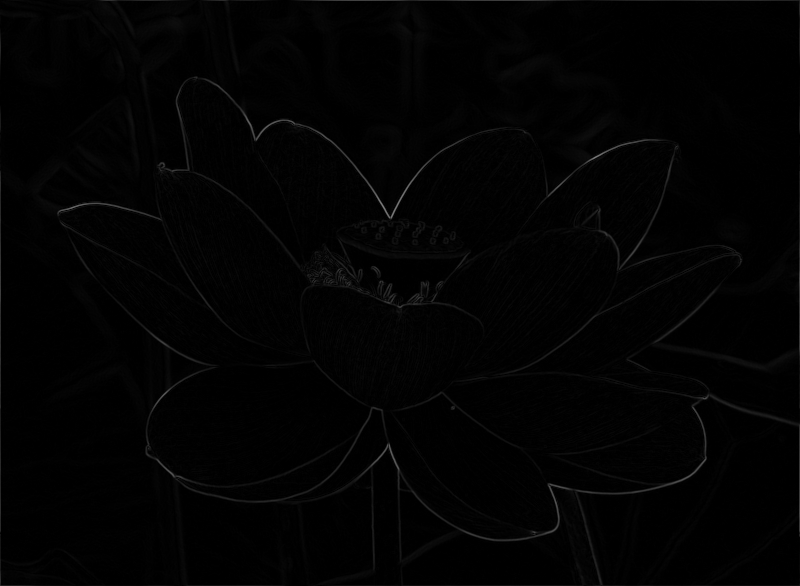
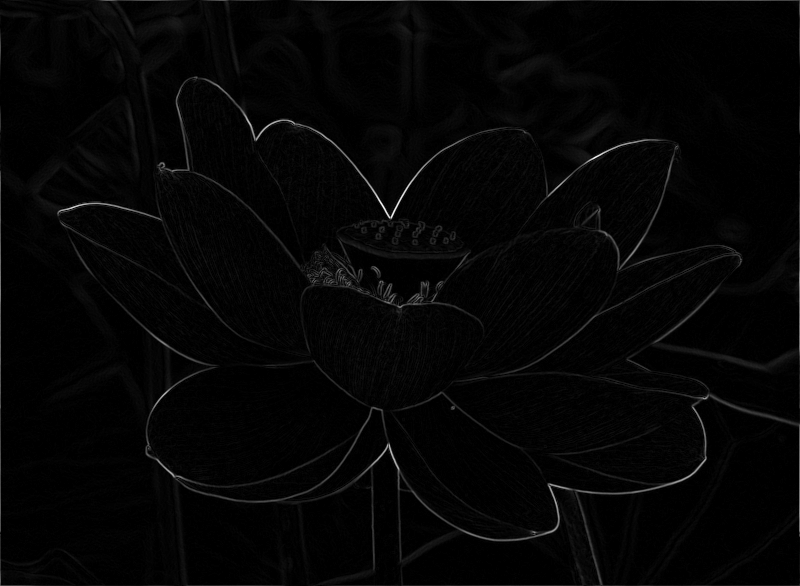
Added a "max range" filter
filterMaxRange takes a grayscale image and returns the same image with
the values stretched to fill white to black

diff --git a/Image Filters/src/ImageHandler.java b/Image Filters/src/ImageHandler.java
@@ -130,6 +130,34 @@ public class ImageHandler {
 		}
 		return out;
 	}
+	
+	public static BufferedImage filterMaxRange(BufferedImage image) {
+		int min = 255, max = 0;
+		for(int y = 0; y < image.getHeight(); y++) {
+			for(int x = 0; x < image.getWidth(); x++) {
+				int val = image.getRGB(x, y) & 0xff;
+				if(val < min) {
+					min = val;
+				}
+				if(val > max) {
+					max = val;
+				}
+			}
+		}
+		double scale = 255/(max-min);
+		
+		BufferedImage out = new BufferedImage(image.getWidth(),image.getHeight(),BufferedImage.TYPE_INT_ARGB);
+		for(int y = 0; y < image.getHeight(); y++) {
+			for(int x = 0; x < image.getWidth(); x++) {
+				int val = image.getRGB(x, y) & 0xff;
+				val -= min;
+				val *= scale;
+				Color color = new Color(val, val, val);
+				out.setRGB(x, y, color.argb);
+			}
+		}
+		return out;
+	}
 
 	public static BufferedImage filterVerticalEdgeDetect(BufferedImage image) {
 		BufferedImage gray = filterGrayscale(image);

diff --git a/Image Filters/src/FilterMain.java b/Image Filters/src/FilterMain.java
@@ -4,12 +4,9 @@ public class FilterMain {
 
 	public static void main(String[] args) {
 		BufferedImage image = ImageHandler.readImage("flower.jpg");
-		ImageHandler.showImage(image);
-		
-		BufferedImage gray = ImageHandler.filterGrayscale(image);
-		ImageHandler.showImage(gray);
 		
 		BufferedImage edges = ImageHandler.filterEdgeDetect(image);
+		edges = ImageHandler.filterMaxRange(edges);
 		ImageHandler.showImage(edges);
 		ImageHandler.writeImage("flower_edge", edges);
 	}
